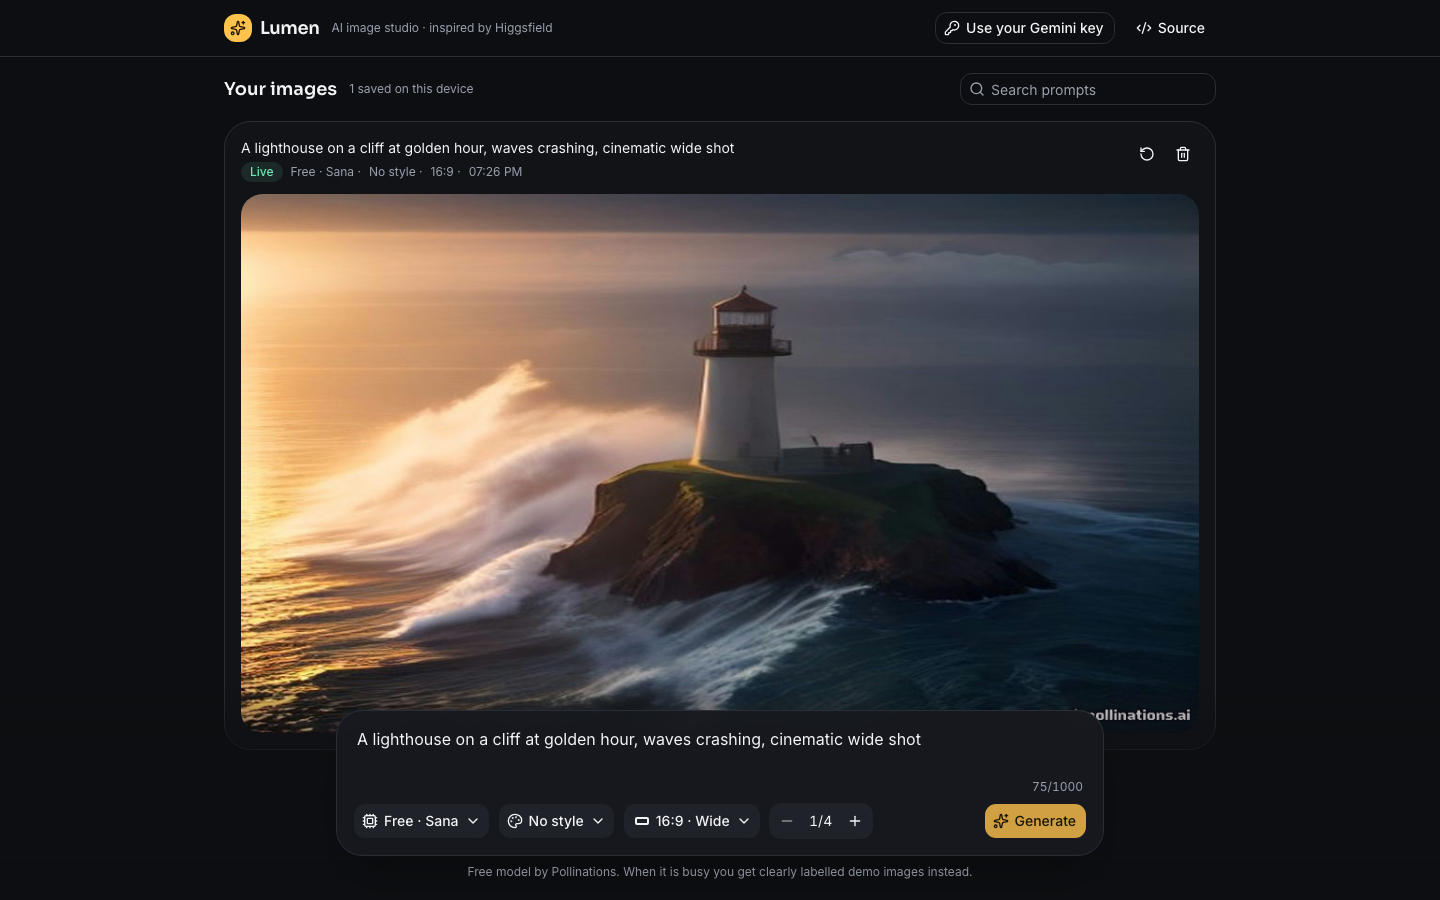
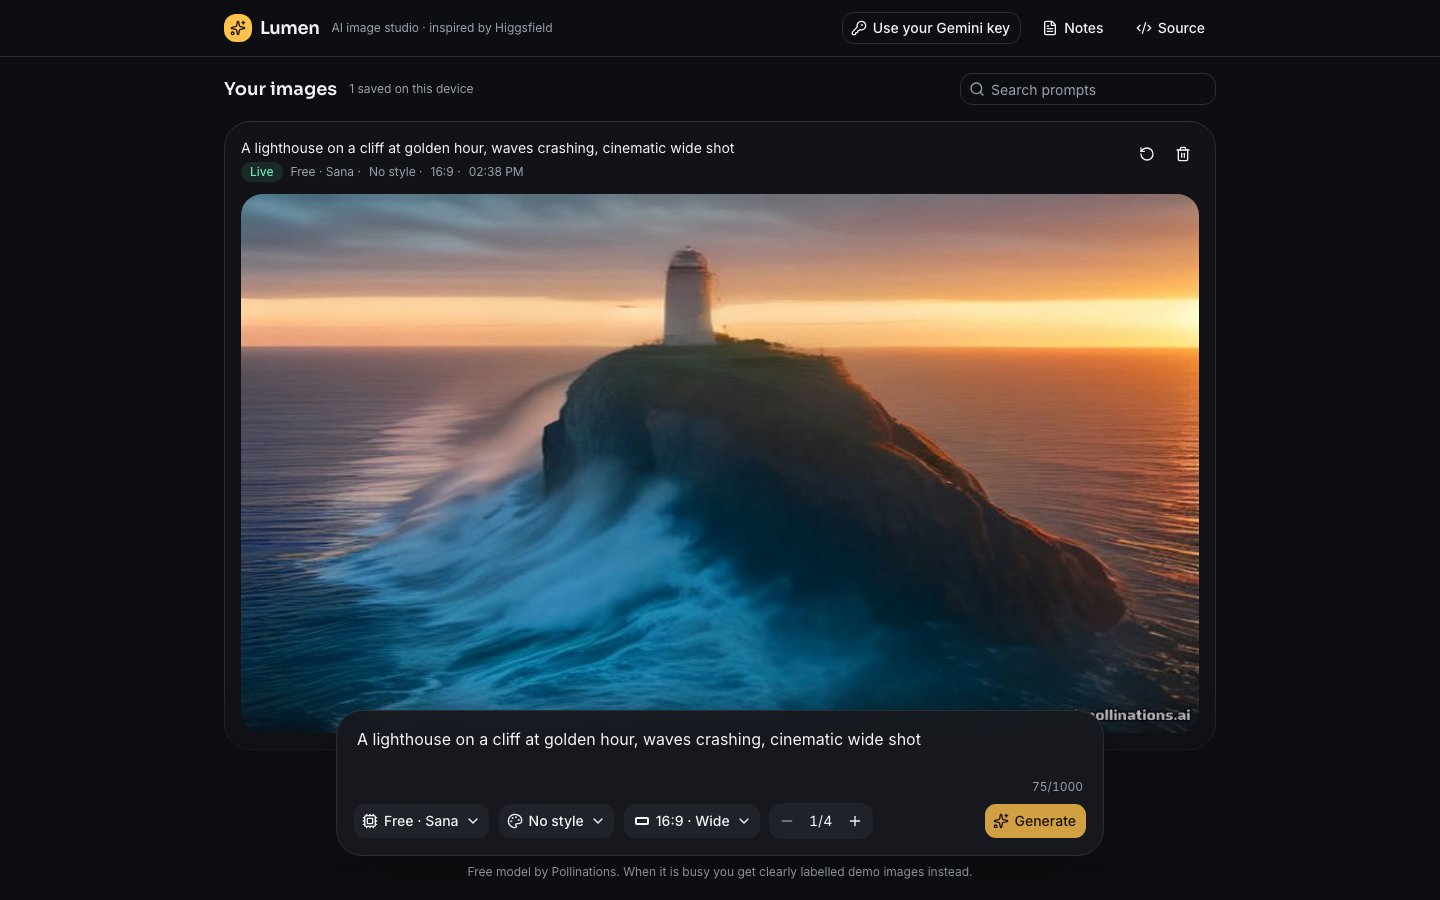
copy: build notes written in third person, framed around the requirements

diff --git a/src/app/notes/page.tsx b/src/app/notes/page.tsx
@@ -33,9 +33,9 @@ const NOT_BUILT = [
 
 /** What bring-your-own-key does today, so the trade-off is explicit. */
 const BYOK_POINTS = [
-  "Paste your own Gemini key to unlock Google's Nano Banana models at Google's price, with no credit markup.",
-  "The key goes from your browser straight to Google. It is never sent to Lumen's server.",
-  "It is kept for this tab only, unless you tick \"Remember on this device\".",
+  "Visitors paste their own Gemini key to unlock Google's Nano Banana models at Google's price, with no credit markup.",
+  "The key goes from the visitor's browser straight to Google. It is never sent to Lumen's server.",
+  "It is kept for the current tab only, unless \"Remember on this device\" is ticked.",
   "A bad key or missing quota shows Google's own message and a way to fix it, not a dead end.",
 ];
 
@@ -47,11 +47,11 @@ const NEXT_UP = [
   },
   {
     title: "Accounts page",
-    detail: "Profile, saved keys and usage history, with generations stored server-side so history follows you across devices.",
+    detail: "Profile, saved keys and usage history, with generations stored server-side so history follows the account across devices.",
   },
   {
     title: "Tier-based system",
-    detail: "Free, Pro and Max tiers backed by Stripe subscriptions and a credit ledger, with the price shown before you generate, not after.",
+    detail: "Free, Pro and Max tiers backed by Stripe subscriptions and a credit ledger, with the price shown before generating, not after.",
   },
   {
     title: "Rate limiting",
@@ -90,7 +90,7 @@ export default function NotesPage() {
         <Badge variant="secondary">Build notes</Badge>
         <h1 className="font-heading text-3xl font-semibold tracking-tight sm:text-4xl">What I built, what I left out, and why</h1>
         <p className="text-muted-foreground">
-          You said you want to see how I approach building with AI: speed, thought process, UX and UI. I used Higgsfield first, then picked the
+          The requirements were to show how I approach building with AI: speed, thought process, UX and UI. I used Higgsfield first, then picked the
           one loop that matters most to a first-time visitor (type an idea, get an image) and made it work with no account and no dead ends.
         </p>
       </header>

diff --git a/.agent-logs/2026-10-14_10-10-16_3b45ddd5-35cf-45c5-8e55-3bc227ecca9b.md b/.agent-logs/2026-10-14_10-10-16_3b45ddd5-35cf-45c5-8e55-3bc227ecca9b.md
@@ -5,9 +5,9 @@ author: Khaan25
 model: claude-opus-5-5
 tool: claude-code
 project: higgsfield-clone
-total_exchanges: 12
+total_exchanges: 13
 first_prompt_time: 2026-10-14T10:10:16.214Z
-last_prompt_time: 2026-10-15T09:33:45.078Z
+last_prompt_time: 2026-10-15T09:34:55.584Z
 ---
 
 # Session Log - 2026-10-14
@@ -417,4 +417,39 @@ If we've allowed for that, I'd add:
 I read your rqeuirements and you want to see how I approach building with AI and speed thought process, UX, UI 
 
 and commit n psuh
+
+
+[LOG_ENTRY type=PROMPT num=13 session=3b45ddd5]
+timestamp: 2026-10-15T09:34:55.584Z
+model: claude-opus-5-5
+
+fix the 500 error as well and push it live
+
+
+[LOG_ENTRY type=RESPONSE num=13 session=3b45ddd5]
+timestamp: 2026-10-15T09:38:25.075Z
+model: claude-opus-5-5
+
+The notes page is live, and the 500 is handled better, but I couldn't confirm the retry turns your exact prompt into a live image. When I tried it on production, the free provider was rate-limiting (402) after my test runs. That's handled by the labelled Demo fallback. A second attempt after a pause was blocked, so that last check is yours to do.
+
+**What the "500" actually was:** Pollinations' own image backend was overloaded and returned 503 internally, which Pollinations passes on as 500. It wasn't our code or the length of your prompt; the same request gave 200, 402 and 500 within seconds of each other. The app never crashed: you got labelled Demo images.
+
+**What I changed:**
+- **The server now retries once** when Pollinations returns 500 or the connection drops, after a 1.5-second pause, if enough time is left. Rate-limit responses (402/429) aren't retried, because retrying straight away just extends the limit.
+- **The Demo banner now gives the real reason**, for example "The free image provider's backend is overloaded right now", instead of the generic "isn't available".
+
+**New page at `/notes` ("Build notes"):** https://higgsfield-clone-zeta.vercel.app/notes, linked as "Notes" in the header. It's written in your voice and covers:
+- **What I left out on purpose:**
+  - auth and account setup (Supabase, Convex or similar)
+  - Stripe and a credits system
+  - a paid default model
+- **Why bring-your-own-key:** you don't have a Gemini key, and Gemini has no free tier for image models. It also notes that the key stays in the visitor's browser.
+- **What I'd add next:** Google OAuth (after the first free result, never before), an accounts page, a tier system with Stripe and credits, rate limiting (Upstash with `Retry-After`), and throttling (a queue with per-tier concurrency).
+- **"See the process":** links to the agent logs, research, strategy and architecture, aimed at your "how I build with AI" point.
+
+All 16 tests pass and the production check passes on desktop and mobile. Everything is committed and pushed (`6524caf`).
+
+**To confirm the retry yourself:** wait a minute, then paste your MacBook prompt into the live app. You should get a **Live** image. If the free tier is still busy, you'll see the Demo banner with the new wording and a "Retry live" button.
+
+This reply gets added to the session log once it finishes, so it'll show up as one uncommitted file until the next commit.
 
